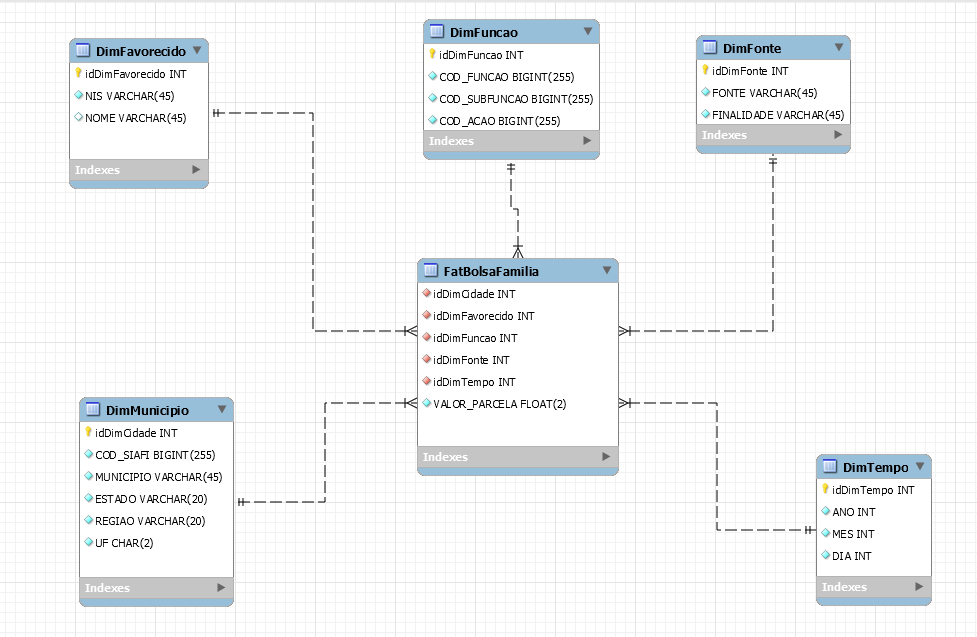
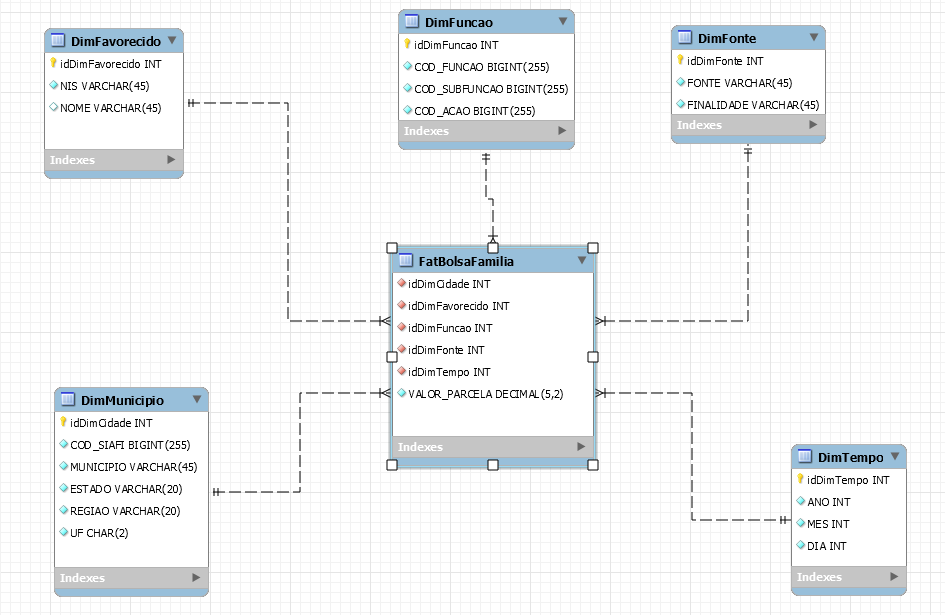
change type to valor

diff --git a/README.md b/README.md
@@ -33,7 +33,7 @@ $: python etl.py 201701_BolsaFamiliaFolhaPagamento.csv
 No *dashboard*, utilizamos o **Power BI**, ferramenta self-service BI da Microsoft.
 > Atenção: O PowerBI precisa do driver do MySQL para fazer ligação com o banco de dados, baixe [aqui](https://dev.mysql.com/downloads/connector/net/6.10.html) e instale na sua máquina.
 
-Após a conexão estiver estabelicida, execute o comando abaixo para carregar os dados do DW:
+Após a conexão estiver estabelecida, execute o comando abaixo para carregar os dados do DW:
 ```SQL
 select
 MUNICIPIO,
